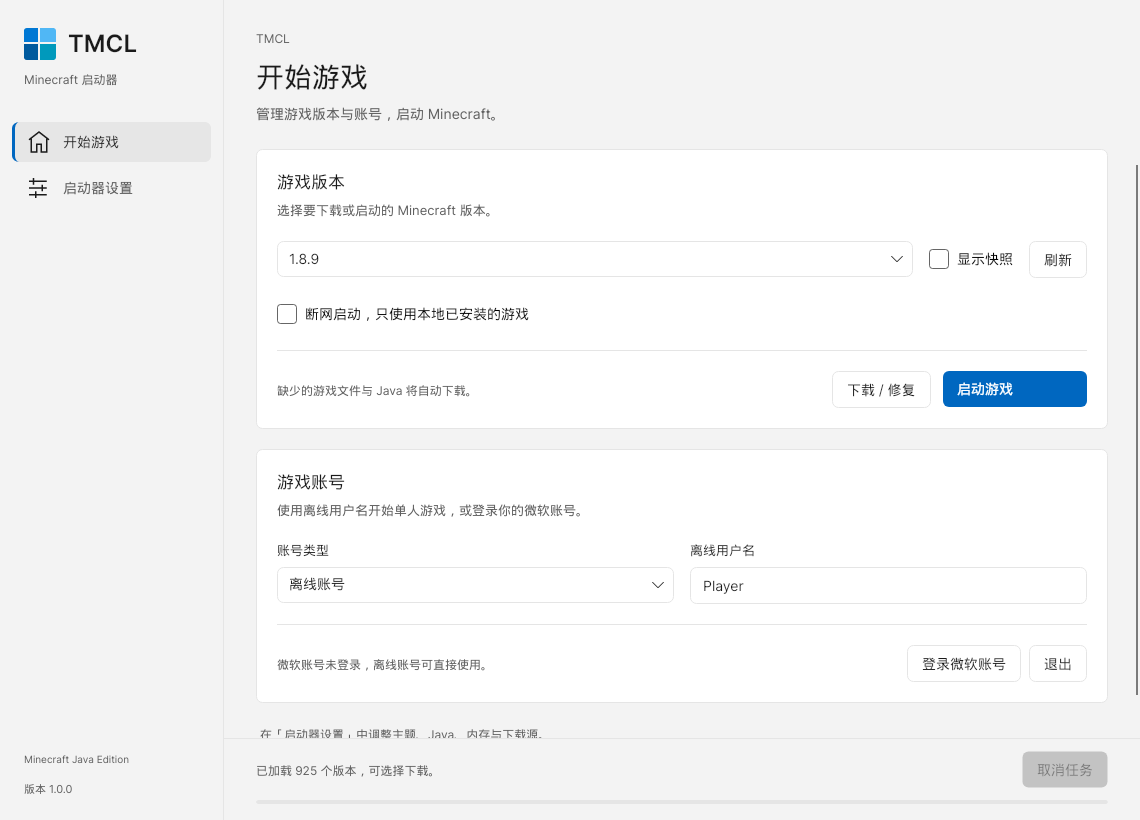
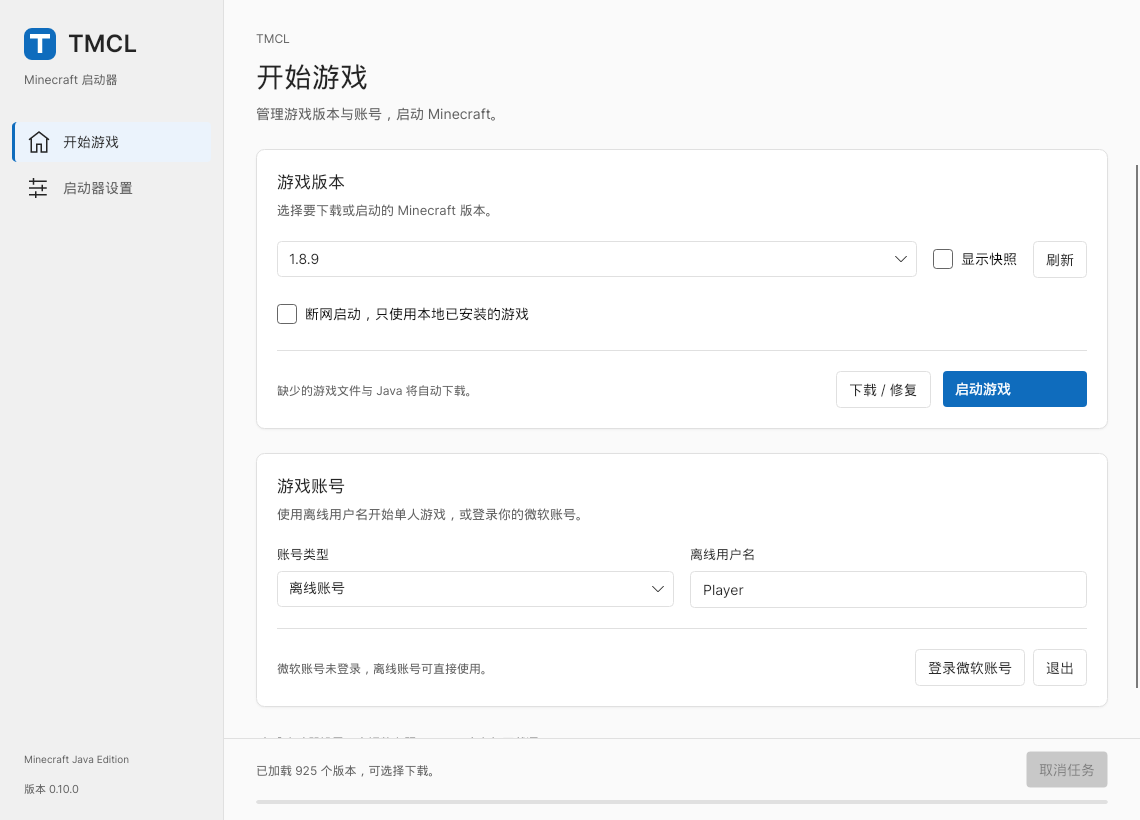
Replace PowerToys appearance with Fluent 2 design tokens and migrate saved preferences

diff --git a/src/Tmcl.App/Appearance.cs b/src/Tmcl.App/Appearance.cs
@@ -15,10 +15,10 @@ internal static class Appearance
         bool claude = style == "Claude";
         string[] light = claude
             ? ["#F8F7F4", "#EFEEE8", "#FFFFFF", "#F3F1EB", "#E5E1D9", "#302D29", "#77716A", "#A4573D", "#FFFFFF", "#E4DFD5"]
-            : ["#F3F3F3", "#F3F3F3", "#FFFFFF", "#FFFFFF", "#E5E5E5", "#1A1A1A", "#606060", "#0067C0", "#FFFFFF", "#E6E6E6"];
+            : ["#FAFAFA", "#F0F0F0", "#FFFFFF", "#FFFFFF", "#E0E0E0", "#242424", "#616161", "#0F6CBD", "#FFFFFF", "#EBF3FC"];
         string[] dark = claude
             ? ["#242320", "#1D1C19", "#2C2B27", "#24231F", "#403D36", "#EEEAE2", "#ADA69B", "#CE967B", "#241C17", "#35322C"]
-            : ["#202020", "#202020", "#2B2B2B", "#1F1F1F", "#3D3D3D", "#F5F5F5", "#BDBDBD", "#60CDFF", "#00324C", "#383838"];
+            : ["#1F1F1F", "#141414", "#292929", "#242424", "#424242", "#FFFFFF", "#ADADAD", "#479EF5", "#0A1B2C", "#0A2E4A"];
         var app = Application.Current!;
         SetPalette(app, ThemeVariant.Light, light);
         SetPalette(app, ThemeVariant.Dark, dark);
@@ -28,8 +28,10 @@ internal static class Appearance
             fluent.Palettes[ThemeVariant.Dark].Accent = Color.Parse(dark[7]);
         }
         app.Resources["CardPadding"] = new Thickness(claude ? 24 : 20);
-        app.Resources["CardRadius"] = new CornerRadius(claude ? 10 : 6);
-        app.Resources["ControlPadding"] = claude ? new Thickness(16, 10) : new Thickness(14, 8);
+        app.Resources["CardRadius"] = new CornerRadius(claude ? 10 : 8);
+        app.Resources["ControlRadius"] = new CornerRadius(claude ? 6 : 4);
+        app.Resources["CardShadow"] = claude ? default(BoxShadows) : BoxShadows.Parse("0 1 2 0 #10000000");
+        app.Resources["ControlPadding"] = claude ? new Thickness(16, 10) : new Thickness(12, 8);
         app.Resources["ControlHeight"] = claude ? 40d : 36d;
         app.Resources["PageHeaderMargin"] = claude ? new Thickness(40, 32, 40, 24) : new Thickness(32, 28, 32, 24);
         app.Resources["PageContentMargin"] = claude ? new Thickness(40, 0, 40, 32) : new Thickness(32, 0, 32, 24);

diff --git a/src/Tmcl.App/Settings.cs b/src/Tmcl.App/Settings.cs
@@ -14,7 +14,7 @@ public sealed class Settings
     public int Memory { get; set; } = (int)Math.Clamp(GC.GetGCMemoryInfo().TotalAvailableMemoryBytes / 1048576 / 2, 1024, 4096);
     public bool Dark { get; set; } = false;
     public string? Theme { get; set; }
-    public string InterfaceStyle { get; set; } = "PowerToys";
+    public string InterfaceStyle { get; set; } = "Fluent2";
     public string SourceMode { get; set; } = "Auto";
     public bool? AutoMirror { get; set; }
     public string CountryCode { get; set; } = "";
@@ -23,7 +23,13 @@ public sealed class Settings
     public bool UseMirror => SourceMode switch { "BMCLAPI" => true, "Official" => false, _ => AutoMirror ?? Tmcl.Core.DownloadSources.DefaultMirror(CountryCode) };
     public static Settings Load()
     {
-        try { return JsonSerializer.Deserialize<Settings>(File.ReadAllText(Path.Combine(DataPath, "settings.json"))) ?? new(); }
+        try
+        {
+            var settings = JsonSerializer.Deserialize<Settings>(File.ReadAllText(Path.Combine(DataPath, "settings.json"))) ?? new();
+            // Earlier releases named this preference PowerToys. Preserve the user's theme mode.
+            if (settings.InterfaceStyle is not "Claude" and not "Fluent2") settings.InterfaceStyle = "Fluent2";
+            return settings;
+        }
         catch (Exception ex) when (ex is IOException or JsonException or UnauthorizedAccessException) { return new(); }
     }
     public void Save()

diff --git a/src/Tmcl.App/MainWindow.axaml.cs b/src/Tmcl.App/MainWindow.axaml.cs
@@ -84,13 +84,13 @@ public partial class MainWindow : Window
         Appearance.Apply(settings.InterfaceStyle);
         PageTitle.FontSize = claude ? 30 : 28;
         PageTitle.FontWeight = claude ? Avalonia.Media.FontWeight.Medium : Avalonia.Media.FontWeight.SemiBold;
-        PowerToysBrand.IsVisible = !claude;
+        FluentBrand.IsVisible = !claude;
         ClaudeBrand.IsVisible = claude;
         UpdatePageHeading();
     }
     private void StyleChanged(object? sender, SelectionChangedEventArgs e)
     {
-        settings.InterfaceStyle = StyleBox.SelectedIndex == 1 ? "Claude" : "PowerToys";
+        settings.InterfaceStyle = StyleBox.SelectedIndex == 1 ? "Claude" : "Fluent2";
         ApplyInterfaceStyle();
         try { settings.Save(); StatusText.Text = "界面风格已更新并保存。"; }
         catch (Exception ex) { StatusText.Text = "界面风格已切换，但保存失败：" + ex.Message; }

diff --git a/README.md b/README.md
@@ -2,26 +2,28 @@
 
 [下载 v0.10 正式版](https://github.com/tourio114/tmcl/releases/tag/v0.10)
 
-提供 PowerToys / Fluent 与 Claude 暖色两种界面风格的 Minecraft Java Edition 跨平台启动器。使用 Avalonia 构建桌面界面，支持 Windows、Linux 和 macOS。默认选择 Minecraft 1.8.9，使用离线账号，微软登录可选。
+提供 Fluent 2 与 Claude 暖色两种界面风格的 Minecraft Java Edition 跨平台启动器。使用 Avalonia 构建桌面界面，支持 Windows、Linux 和 macOS。默认选择 Minecraft 1.8.9，使用离线账号，微软登录可选。
 
-![PowerToys 风格](docs/light.png)
+![Fluent 2 风格](docs/light.png)
 
 ## 界面与主题
 
-打开左侧 **启动器设置 → 外观**：
+Fluent 2 界面可从最新 [开发构建](https://github.com/tourio114/tmcl/actions/workflows/build.yml) 下载；已发布的 v0.10 保留原发布内容。
 
-- **界面风格**：PowerToys · Fluent（紧凑、灰白底色、蓝色强调）或 Claude · 简约暖色（暖白 / 炭灰、陶土色、宽松留白）。
+打开左侧 **启动器设置 → 外观**。Fluent 2 风格参考微软的 [布局](https://fluent2.microsoft.design/layout)、[形状](https://fluent2.microsoft.design/shapes) 与 [颜色](https://fluent2.microsoft.design/color) 指南，通过 Avalonia 实现：
+
+- **界面风格**：Fluent 2（中性色层次、品牌蓝、4px 控件圆角与统一间距）或 Claude · 简约暖色（暖白 / 炭灰、陶土色、宽松留白）。
 - **应用主题**：浅色、深色、跟随系统。两种界面风格均支持这三种明暗模式。
-- 切换立即生效并自动保存；重启后恢复。下载任务执行中也能切换外观，旧版黑白主题偏好会自动迁移。其他设置可以点击页面底部的“保存设置”。
+- 切换立即生效并自动保存；重启后恢复。下载任务执行中也能切换外观，旧版 PowerToys 风格及黑白主题偏好会自动迁移。其他设置可以点击页面底部的“保存设置”。
 
 | 界面风格 | 浅色预览 | 深色预览 |
 | --- | --- | --- |
-| PowerToys · Fluent | [查看](docs/powertoys-light.png) | [查看](docs/powertoys-dark.png) |
+| Fluent 2 | [查看](docs/fluent2-light.png) | [查看](docs/fluent2-dark.png) |
 | Claude · 简约暖色 | [查看](docs/claude-light.png) | [查看](docs/claude-dark.png) |
 
 ## 功能
 
-- 中文界面、PowerToys / Claude 两种风格，各支持浅色、深色、跟随系统；外观选项立即生效并自动保存。
+- 中文界面、Fluent 2 / Claude 两种风格，各支持浅色、深色、跟随系统；外观选项立即生效并自动保存。
 - 正式版 / 快照列表、本地版本扫描、断网启动。
 - 下载源选择：自动 / BMCLAPI / 官方。通过 IPv4 检测地区，中国默认 BMCLAPI、其他地区默认官方；测速后自动模式采用更快的源，手动选择优先。BMCLAPI 请求失败或节点超时会尝试官方源。
 - 1–32 路并发文件下载，已有文件校验、SHA-1 校验、失败重试、取消任务、临时文件清理。重新下载会复用校验通过的文件；尚不支持单文件断点续传。

diff --git a/docs/VALIDATION.md b/docs/VALIDATION.md
@@ -23,3 +23,9 @@
 - 旧版设置仅保存 `Dark: true` 时，启动后迁移为深色主题，并使用默认 PowerToys 风格。
 - 截图为实际桌面窗口截图，详见 `powertoys-light.png`、`powertoys-dark.png`、`claude-light.png`、`claude-dark.png`。
 - 未在本次测试中模拟操作系统明暗主题的实时变化；“跟随系统”通过 Avalonia 的系统主题机制实现。
+
+## Fluent 2 风格更新
+
+2026-11-19：将默认 PowerToys 风格替换为 Fluent 2 风格，调整品牌蓝、中性色层次、4px 控件圆角、8px 卡片圆角、轻量阴影与间距；Claude 的独立配色与明暗模式继续保留。
+
+实际窗口验证了旧 `PowerToys` 设置迁移至 `Fluent2`、浅色 / 深色显示、切换 Claude 后再返回 Fluent 2，以及明暗主题的保存。新版截图见 `fluent2-light.png` / `fluent2-dark.png`。此次更新通过开发构建分发，未改写既有 v0.10 标签和发行文件。
